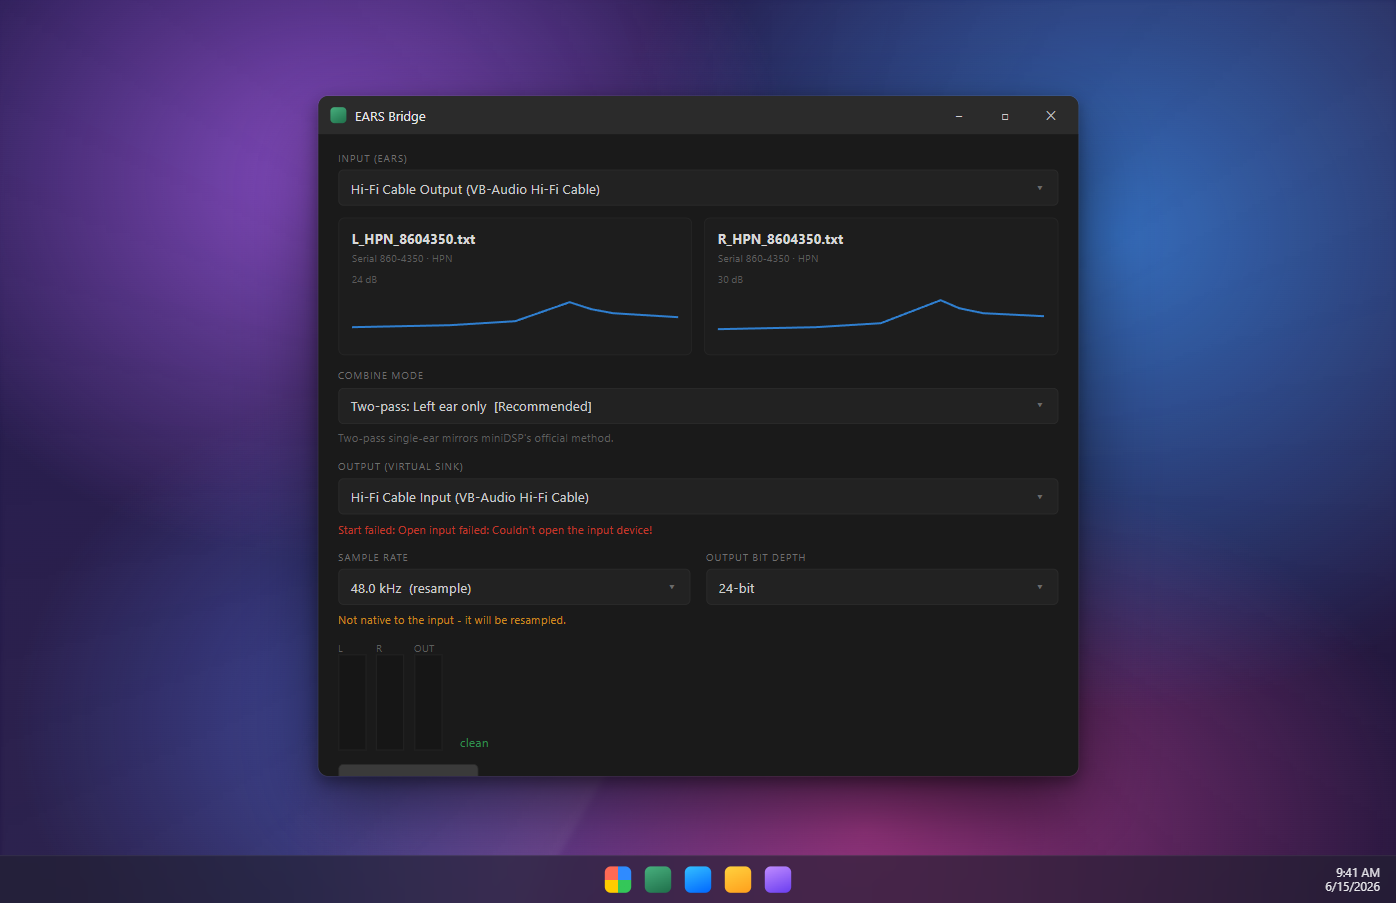
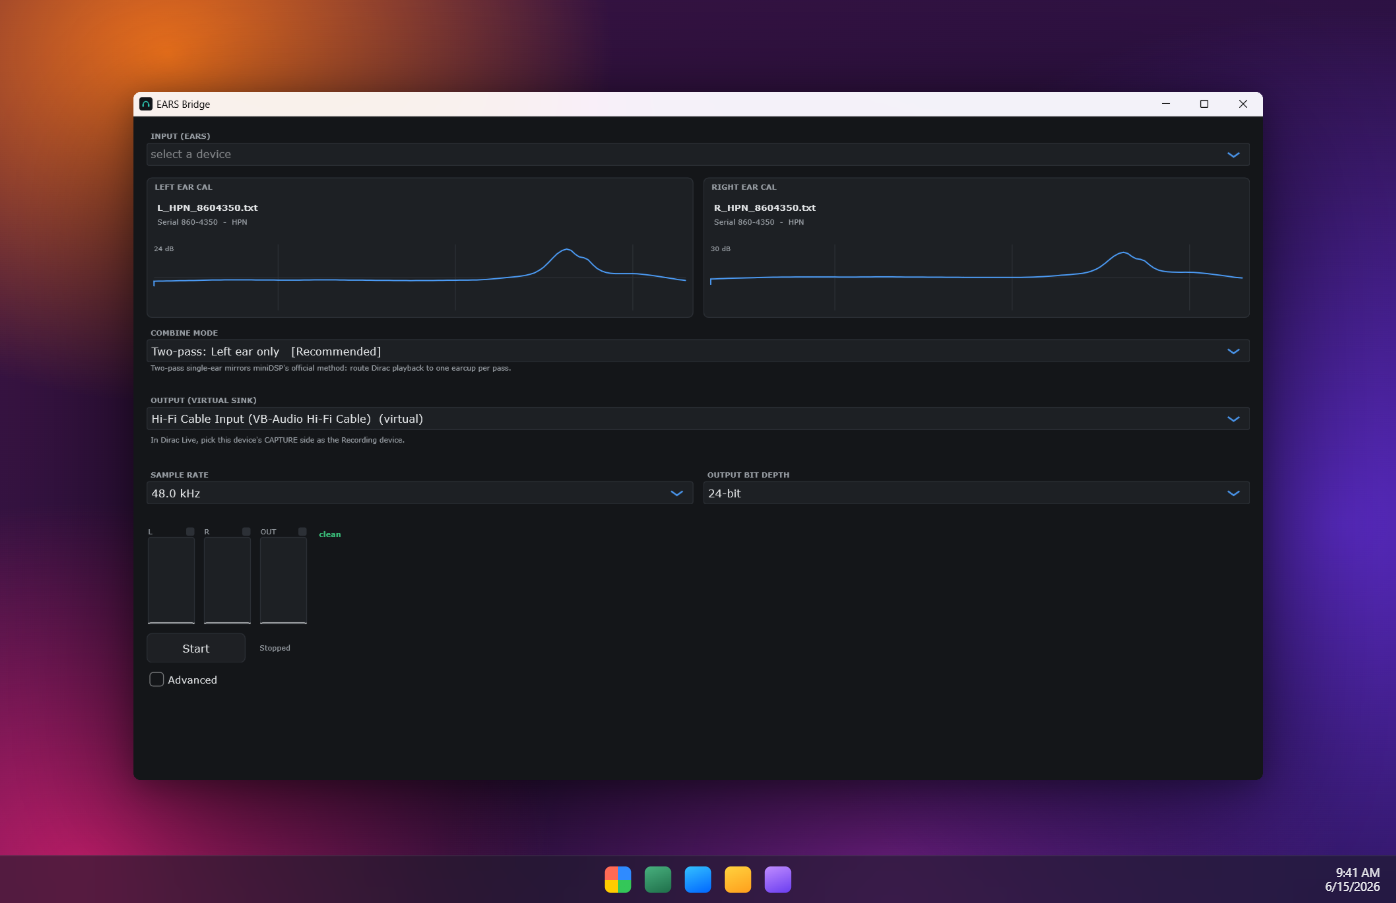
site: use the real Windows EARS Bridge screenshot for the before side
Lift the actual app window from the real Windows screenshot (low-saturation
detection to separate UI from the colorful wallpaper, rounded-corner alpha
mask) and float it on a sunset desktop with a taskbar, matching the after
side's framing. Replaces the hand-built before reproduction with the genuine
app.

diff --git a/docs/mockups/scene-before.html b/docs/mockups/scene-before.html
@@ -3,99 +3,33 @@
   *{ box-sizing:border-box; margin:0; padding:0; }
   html,body{ width:1396px; height:903px; overflow:hidden;
     font-family:"Segoe UI",-apple-system,Roboto,sans-serif; }
-  /* Windows 11 "bloom" wallpaper, approximated with layered gradients */
+  /* vibrant sunset/bloom wallpaper sampled from the real Windows desktop */
   body{ position:relative;
     background:
-      radial-gradient(55% 70% at 24% 20%, rgba(150,84,214,.85), transparent 60%),
-      radial-gradient(60% 85% at 80% 26%, rgba(44,118,210,.82), transparent 62%),
-      radial-gradient(70% 70% at 62% 92%, rgba(196,64,150,.72), transparent 60%),
-      radial-gradient(55% 65% at 34% 80%, rgba(70,96,214,.7), transparent 60%),
-      linear-gradient(135deg,#241a4d 0%,#1e1238 100%); }
+      radial-gradient(58% 70% at 12% 6%, rgba(255,122,24,.92), transparent 55%),
+      radial-gradient(60% 72% at 6% 96%, rgba(206,30,108,.88), transparent 56%),
+      radial-gradient(70% 95% at 96% 58%, rgba(96,46,214,.85), transparent 60%),
+      radial-gradient(55% 60% at 64% 96%, rgba(150,40,170,.7), transparent 58%),
+      linear-gradient(135deg,#3a1340 0%,#241046 100%); }
   .bloom{ position:absolute; inset:0; pointer-events:none;
-    background:
-      radial-gradient(38% 13% at 52% 44%, rgba(255,255,255,.16), transparent 70%),
-      conic-gradient(from 210deg at 56% 52%, rgba(255,255,255,.07), transparent 28%, rgba(255,255,255,.05) 58%, transparent 82%);
+    background:radial-gradient(40% 14% at 50% 42%, rgba(255,255,255,.14), transparent 72%);
     filter:blur(3px); }
-  /* floating Windows app window */
-  .win{ position:absolute; left:50%; top:96px; transform:translateX(-50%); width:760px;
-    border-radius:10px; overflow:hidden;
-    box-shadow:0 34px 74px rgba(0,0,0,.52), 0 6px 16px rgba(0,0,0,.4);
-    outline:1px solid rgba(255,255,255,.08); }
-  /* ---------- BEFORE app body ---------- */
-  .b{ width:760px; height:680px; display:flex; flex-direction:column; background:#1a1a1a; }
-  .b .bar{ height:38px; display:flex; align-items:center; padding:0 4px 0 12px; background:#2b2b2b; color:#e6e6e6; font-size:13px; flex-shrink:0; }
-  .b .bar .ico{ width:16px; height:16px; border-radius:4px; margin-right:9px; background:linear-gradient(150deg,#48b07e,#1f6f4a); }
-  .b .winctl{ margin-left:auto; display:flex; }
-  .b .winctl span{ width:46px; height:38px; display:grid; place-items:center; color:#cfcfcf; font-size:12px; }
-  .b .winctl span.cl:hover{ background:#e81123; color:#fff; }
-  .b .body{ flex:1; background:#1a1a1a; padding:16px 20px 18px; color:#cfcfcf; }
-  .b .lbl{ font-size:10.5px; letter-spacing:.6px; color:#6f6f6f; margin:13px 0 6px; text-transform:uppercase; }
-  .b .lbl:first-child{ margin-top:0; }
-  .b .ddl{ background:#222; border:1px solid #2c2c2c; border-radius:5px; height:36px; display:flex; align-items:center; padding:0 12px; color:#cdcdcd; font-size:13.5px; }
-  .b .ddl .v{ margin-left:auto; color:#6a6a6a; }
-  .b .help{ font-size:11.5px; color:#5f5f5f; margin-top:6px; }
-  .b .warn{ font-size:11.5px; color:#c98a1e; margin-top:6px; }
-  .b .err{ font-size:11.5px; color:#c0392b; margin-top:6px; }
-  .b .cards{ display:flex; gap:12px; }
-  .b .card{ flex:1; background:#1d1d1d; border:1px solid #262626; border-radius:6px; padding:11px 13px; }
-  .b .card h3{ font-size:13.5px; color:#d8d8d8; font-weight:700; }
-  .b .card .sub{ font-size:10.5px; color:#5e5e5e; margin-top:3px; }
-  .b .card .axis{ font-size:10px; color:#5a5a5a; margin:9px 0 2px; }
-  .b .grid2{ display:flex; gap:16px; } .b .grid2 > div{ flex:1; }
-  .b .meters{ display:flex; gap:10px; align-items:flex-end; margin-top:4px; }
-  .b .meter{ width:28px; height:96px; background:#161616; border:1px solid #242424; }
-  .b .mlab{ font-size:10.5px; color:#5e5e5e; }
-  .b .clean{ color:#2f8f4f; font-size:12.5px; margin-left:8px; }
-  .b .start{ margin-top:13px; display:flex; align-items:center; gap:12px; }
-  .b .start button{ background:#3a3a3a; color:#dcdcdc; border:1px solid #2a2a2a; border-radius:5px; height:38px; width:140px; font-size:14px; }
-  .b .start .estatus{ color:#c0392b; font-size:12.5px; }
-  .b .adv{ font-size:12.5px; color:#9a9a9a; margin-top:13px; }
-  .curve{ display:block; }
+  /* the real Windows app, floating as a window */
+  .winimg{ position:absolute; left:50%; top:92px; transform:translateX(-50%); width:1130px; height:auto;
+    filter:drop-shadow(0 34px 66px rgba(0,0,0,.52)) drop-shadow(0 6px 16px rgba(0,0,0,.4)); }
   /* Windows 11 taskbar */
   .taskbar{ position:absolute; left:0; right:0; bottom:0; height:48px; display:flex; align-items:center;
-    justify-content:center; gap:14px; background:rgba(32,30,46,.62);
-    -webkit-backdrop-filter:blur(20px); backdrop-filter:blur(20px); border-top:1px solid rgba(255,255,255,.08); }
+    justify-content:center; gap:14px; background:rgba(28,26,42,.6);
+    -webkit-backdrop-filter:blur(22px); backdrop-filter:blur(22px); border-top:1px solid rgba(255,255,255,.08); }
   .taskbar i{ width:26px; height:26px; border-radius:6px; display:block; }
   .tb-start{ background:conic-gradient(from 0deg,#2f8bff,#2f8bff 90deg,#34c759 90deg,#34c759 180deg,#ffcc00 180deg,#ffcc00 270deg,#ff6a55 270deg); }
   .tb1{ background:linear-gradient(160deg,#48b07e,#1f6f4a); } .tb2{ background:linear-gradient(160deg,#34c0ff,#0066ff); }
   .tb3{ background:linear-gradient(160deg,#ffd23f,#ff9f1c); } .tb4{ background:linear-gradient(160deg,#c08cff,#6a3df0); }
-  .taskbar .clock{ position:absolute; right:16px; color:#e8e8ec; font-size:12px; text-align:right; line-height:1.25; }
+  .taskbar .clock{ position:absolute; right:16px; color:#ececf0; font-size:12px; text-align:right; line-height:1.25; }
 </style></head>
 <body>
   <div class="bloom"></div>
-  <div class="win">
-    <div class="b">
-      <div class="bar"><span class="ico"></span>EARS Bridge<span class="winctl"><span>&#8211;</span><span>&#9633;</span><span class="cl">&#10005;</span></span></div>
-      <div class="body">
-        <div class="lbl">Input (EARS)</div>
-        <div class="ddl">Hi-Fi Cable Output (VB-Audio Hi-Fi Cable)<span class="v">&#9662;</span></div>
-        <div class="cards" style="margin-top:12px">
-          <div class="card"><h3>L_HPN_8604350.txt</h3><div class="sub">Serial 860-4350 &middot; HPN</div><div class="axis">24 dB</div>
-            <svg class="curve" width="100%" height="56" viewBox="0 0 300 56" preserveAspectRatio="none"><polyline points="0,40 90,38 150,34 200,15 220,22 240,26 300,30" fill="none" stroke="#2f7fd0" stroke-width="2"/></svg></div>
-          <div class="card"><h3>R_HPN_8604350.txt</h3><div class="sub">Serial 860-4350 &middot; HPN</div><div class="axis">30 dB</div>
-            <svg class="curve" width="100%" height="56" viewBox="0 0 300 56" preserveAspectRatio="none"><polyline points="0,42 90,40 150,36 205,13 222,21 244,26 300,29" fill="none" stroke="#2f7fd0" stroke-width="2"/></svg></div>
-        </div>
-        <div class="lbl">Combine mode</div>
-        <div class="ddl">Two-pass: Left ear only&nbsp;&nbsp;[Recommended]<span class="v">&#9662;</span></div>
-        <div class="help">Two-pass single-ear mirrors miniDSP&#39;s official method.</div>
-        <div class="lbl">Output (virtual sink)</div>
-        <div class="ddl">Hi-Fi Cable Input (VB-Audio Hi-Fi Cable)<span class="v">&#9662;</span></div>
-        <div class="err">Start failed: Open input failed: Couldn&#39;t open the input device!</div>
-        <div class="grid2" style="margin-top:13px">
-          <div><div class="lbl">Sample rate</div><div class="ddl">48.0 kHz&nbsp;&nbsp;(resample)<span class="v">&#9662;</span></div><div class="warn">Not native to the input - it will be resampled.</div></div>
-          <div><div class="lbl">Output bit depth</div><div class="ddl">24-bit<span class="v">&#9662;</span></div></div>
-        </div>
-        <div style="margin-top:14px" class="meters">
-          <div><div class="mlab">L</div><div class="meter"></div></div>
-          <div><div class="mlab">R</div><div class="meter"></div></div>
-          <div><div class="mlab">OUT</div><div class="meter"></div></div>
-          <span class="clean">clean</span>
-        </div>
-        <div class="start"><button>Start</button><span class="estatus">Error</span></div>
-        <div class="adv">&#9744; Advanced</div>
-      </div>
-    </div>
-  </div>
+  <img class="winimg" src="before-window.png" alt="EARS Bridge — the original Windows app">
   <div class="taskbar">
     <i class="tb-start"></i><i class="tb1"></i><i class="tb2"></i><i class="tb3"></i><i class="tb4"></i>
     <span class="clock">9:41 AM<br>6/15/2026</span>

diff --git a/docs/index.html b/docs/index.html
@@ -160,7 +160,7 @@
     <div class="macshot">
       <div class="ba" style="--pos:50%">
         <img class="ba-base" src="screen-after.png?v=3" alt="EARS Bridge redesigned to Apple's macOS HIG, running as a window on a Mac desktop: a config rail, calibration cards, a Start gated until ready, and labeled level meters.">
-        <img class="ba-top" src="screen-before.png?v=3" alt="EARS Bridge before: the original Windows app — dim low-contrast labels, a cramped layout, a raw error, and empty meters.">
+        <img class="ba-top" src="screen-before.png?v=4" alt="EARS Bridge before: the original Windows app floating on a Windows desktop — dense layout, low-contrast labels, no device selected.">
         <span class="ba-tag ba-tagB">Before</span>
         <span class="ba-tag ba-tagA">After</span>
         <div class="ba-line"><div class="ba-grip">⟺</div></div>